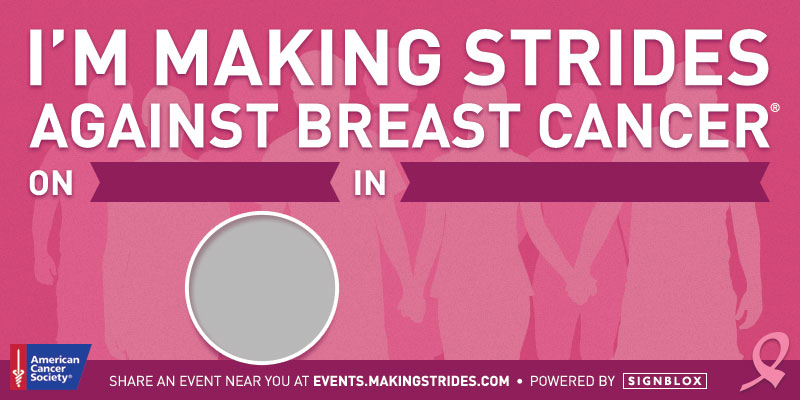
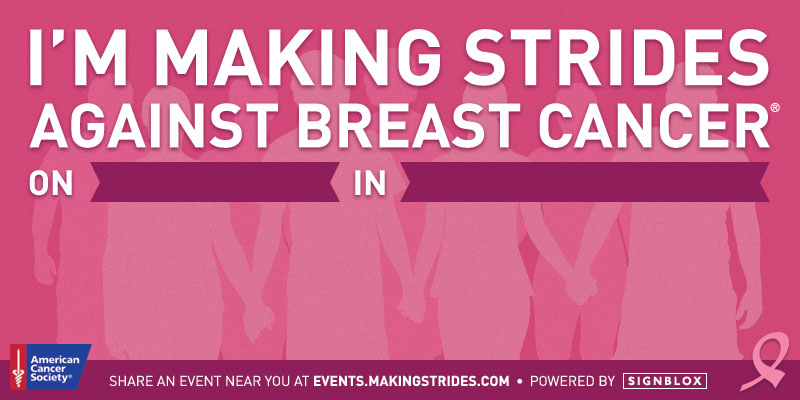
yup

Changed region(s): [[0.2188, 0.51, 0.4375, 0.93]]

diff --git a/styles.css b/styles.css
@@ -5,3 +5,22 @@ body {
   background: url(./images/card.jpg) top left no-repeat;
   color: white;
 }
+
+.content {
+  position: relative;
+  width: 100%;
+  height: 60%;
+  margin-top: 20%;
+}
+
+.date-city {
+  width: 100%;
+  height: 20%;
+}
+
+.signature {
+  width: 75%;
+  height: 65%;
+  margin: auto;
+  text-align: center;
+}
